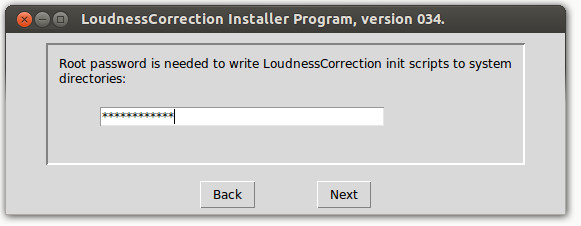
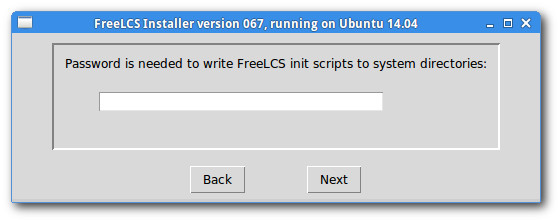
Installer 068 -------------- - Changed text that is displayed on window that asks for password.

diff --git a/installer.py b/installer.py
@@ -26,7 +26,7 @@ import email.mime.text
 import email.mime.multipart
 import tempfile
 
-version = '067'
+version = '068'
 
 ###################################
 # Function definitions start here #
@@ -5133,7 +5133,7 @@ first_window_next_button.grid(column=3, row=1, padx=30, pady=10, sticky=(tkinter
 # Ask for root password
 
 # Create the label for the frame
-sixth_window_label_1 = tkinter.ttk.Label(sixth_frame_child_frame_1, wraplength=text_wrap_length_in_pixels, text='Root password is needed to write LoudnessCorrection init scripts to system directories:')
+sixth_window_label_1 = tkinter.ttk.Label(sixth_frame_child_frame_1, wraplength=text_wrap_length_in_pixels, text='Password is needed to write FreeLCS init scripts to system directories:')
 sixth_window_label_1.grid(column=0, row=0, columnspan=4, pady=10, padx=10, sticky=(tkinter.W, tkinter.N))
 
 root_password_entrybox = tkinter.ttk.Entry(sixth_frame_child_frame_1, width=35, textvariable=root_password, show='*')

diff --git a/LoudnessCorrection.py b/LoudnessCorrection.py
@@ -37,7 +37,7 @@ import signal
 import traceback
 
 loudnesscorrection_version = '251'
-freelcs_version = '2.4'
+freelcs_version = '2.5'
 
 ########################################################################################################################################################################################
 # All default values for settings are defined below. These variables define directory poll interval, number of processor cores to use, language of messages and file expiry time, etc. #
